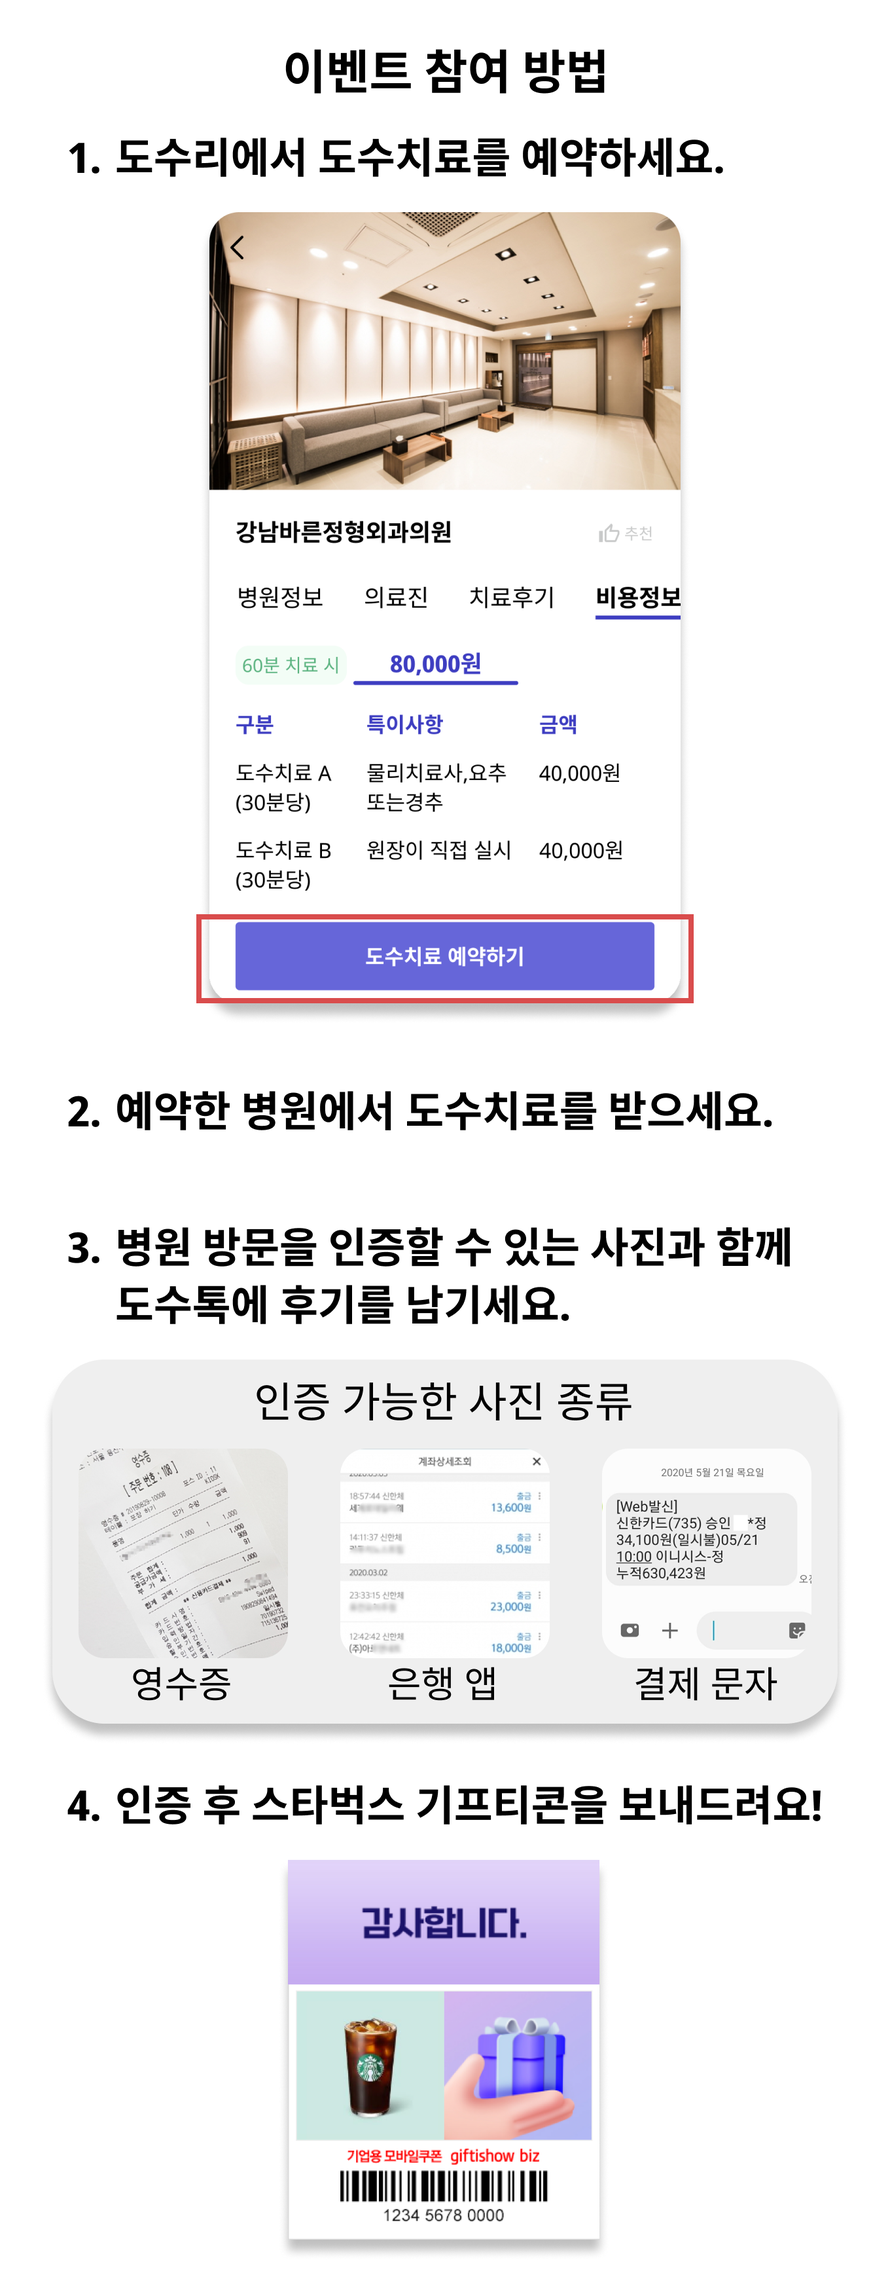
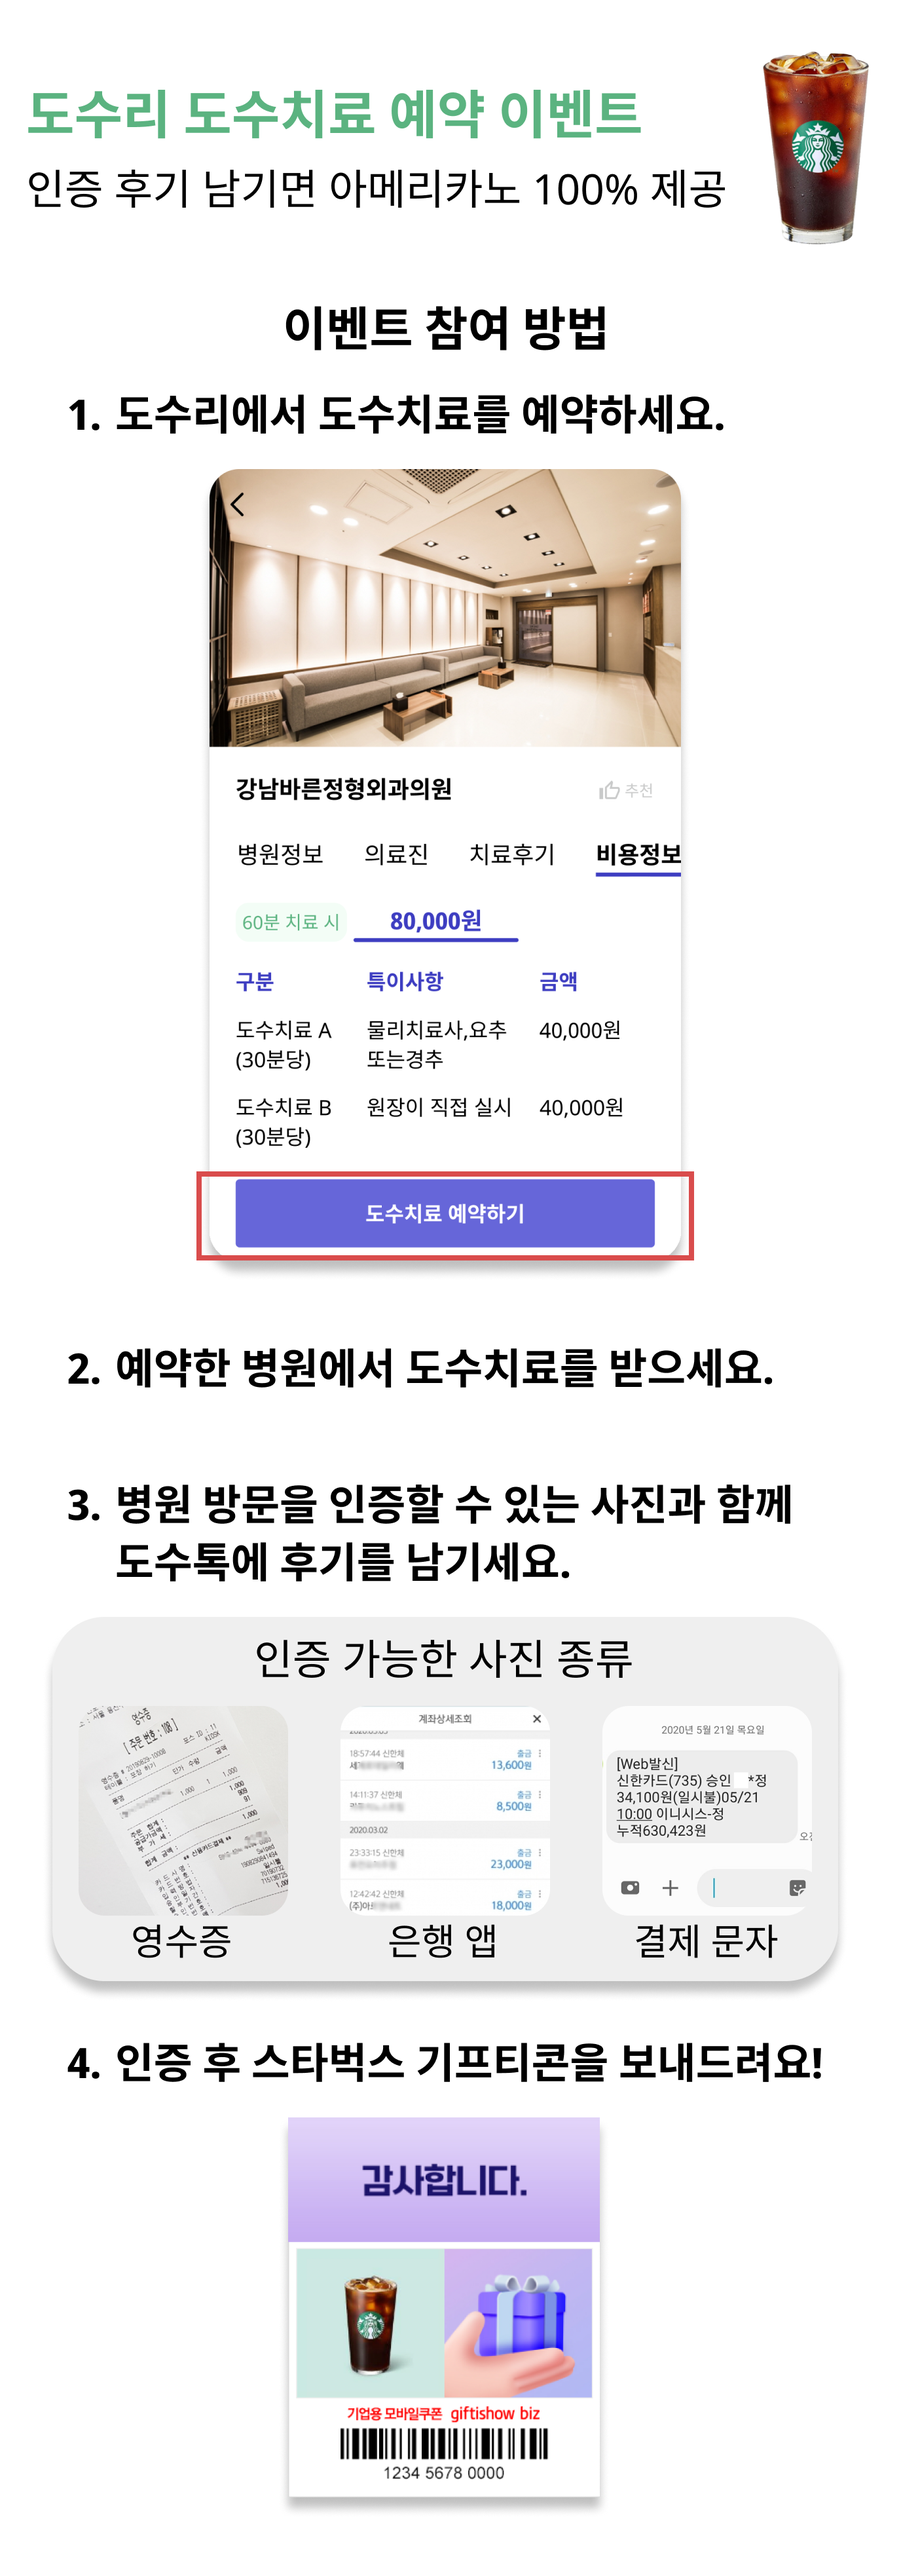
feat: 아메리카노 배너 교체 및 이벤트 페이지 SEO

diff --git a/src/pages/hospital/[id].tsx b/src/pages/hospital/[id].tsx
@@ -244,13 +244,29 @@ const HospitalInformation: FC<IHospitalInformationProps> = ({ id, tab }) => {
                 />
               </div>
             </div>
+            <Tab
+              tabList={HospitalInfoTabList}
+              currentTab={currentTab}
+              onTabClickHander={onTabClickHander}
+            />
             <div className="tab-wrapper">
-              <Tab
-                tabList={HospitalInfoTabList}
-                currentTab={currentTab}
-                onTabClickHander={onTabClickHander}
+              <StarbucksBanner
+                bannerButton={
+                  <Image
+                    src={BenefitButton}
+                    objectFit="contain"
+                    alt="benefit-banner"
+                  />
+                }
+                onClick={() => {
+                  router.push({
+                    pathname: `/event`,
+                    query: id,
+                  });
+                }}
               />
             </div>
+
             <Suspense fallback={<Spinner />}>
               {currentTab.value === "information" && (
                 <Information hospitalData={hospitalInfoData} />
@@ -271,22 +287,6 @@ const HospitalInformation: FC<IHospitalInformationProps> = ({ id, tab }) => {
           </div>
           <div>
             <SaleButtonWrapper>
-              <StarbucksBanner
-                bannerButton={
-                  <Image
-                    src={BenefitButton}
-                    objectFit="contain"
-                    alt="benefit-banner"
-                  />
-                }
-                onClick={() => {
-                  router.push({
-                    pathname: `/event`,
-                    query: id,
-                  });
-                }}
-              />
-
               <Button
                 text="도수치료 예약하기"
                 width="100%"
@@ -335,7 +335,7 @@ const Hospital = styled.div`
   }
 
   .tab-wrapper {
-    margin-bottom: 2.5rem;
+    margin-bottom: 1.5rem;
   }
 
   .disable {

diff --git a/src/pages/event/index.tsx b/src/pages/event/index.tsx
@@ -10,6 +10,7 @@ import { useRouter } from "next/router";
 import { reservationModalState } from "@/components/domain/Hospital/store";
 import { useSetRecoilState } from "recoil";
 import { isEmpty } from "ramda";
+import { NextSeo } from "next-seo";
 
 const Event = () => {
   const theme = useTheme();
@@ -25,6 +26,14 @@ const Event = () => {
           marginBottom: "6rem",
         }}
       >
+        <NextSeo
+          title={`도수치료 예약 이벤트`}
+          description="인증 후기 남기면 아메리카노 100% 제공"
+          canonical={`https://www.dosuri.site/event`}
+          openGraph={{
+            url: `https://www.dosuri.site/event`,
+          }}
+        />
         <Image src={EventPageImage} objectFit="contain" alt="event" />
         {!hasQuery && (
           <SaleButtonWrapper>

diff --git a/src/pages/withauth.tsx b/src/pages/withauth.tsx
@@ -27,6 +27,7 @@ const withAuth = (WrappedComponent: React.ComponentType<any>) => {
         router.asPath === "/" ||
         router.asPath === "/search" ||
         router.asPath.includes("/hospital") ||
+        router.asPath.includes("/event") ||
         router.asPath === "/500" ||
         router.asPath === "/404"
       ) {
